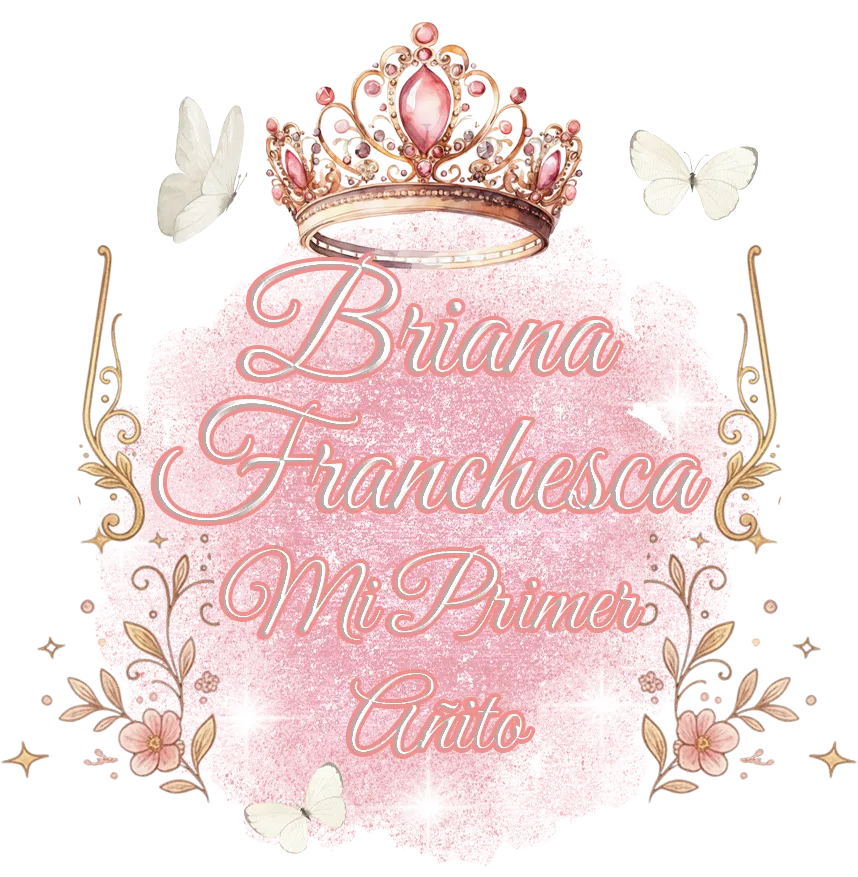
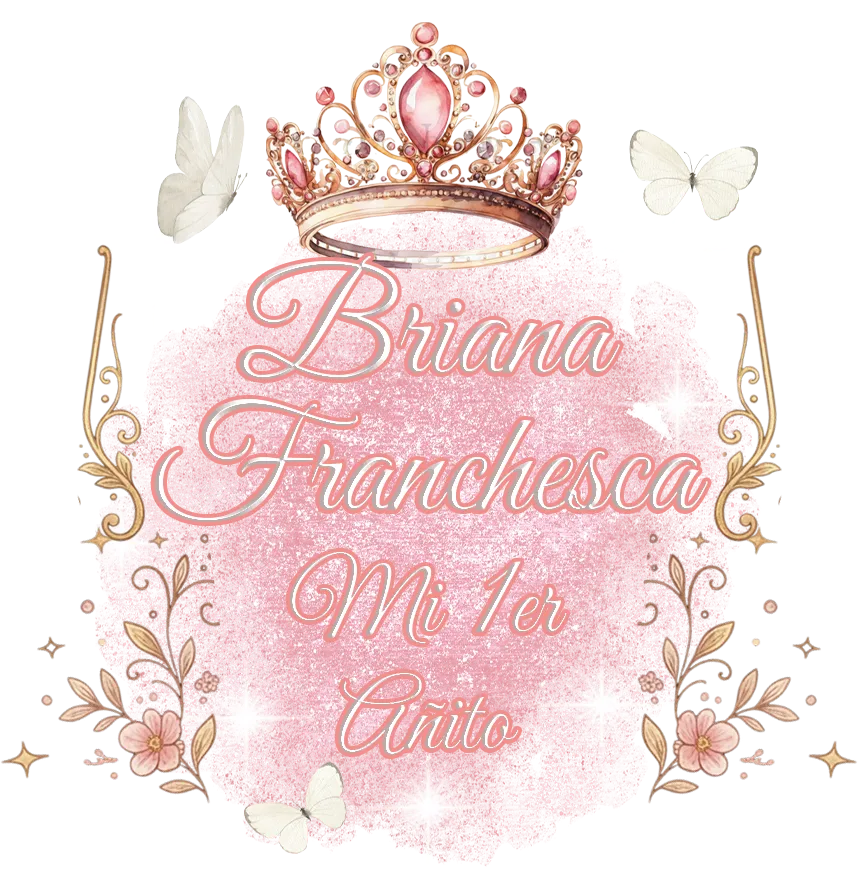
init commit

Changed region(s): [[0.2424, 0.6157, 0.7576, 0.862]]

diff --git a/index.html b/index.html
@@ -34,9 +34,9 @@
     <link rel="stylesheet" href="https://cdn.jsdelivr.net/npm/swiper@11/swiper-bundle.min.css">
     <link rel="stylesheet" href="https://cdnjs.cloudflare.com/ajax/libs/font-awesome/6.0.0-beta3/css/all.min.css">
     <link rel="stylesheet" href="https://cdn.jsdelivr.net/npm/@fancyapps/ui/dist/fancybox.css" />
-    <link rel="stylesheet" href="estilos/normalize.css?v60">
-    <link rel="stylesheet" href="estilos/styles.css?v60">
-    <link rel="stylesheet" href="estilos/mediaQueries.css?v60">
+    <link rel="stylesheet" href="estilos/normalize.css?v65">
+    <link rel="stylesheet" href="estilos/styles.css?v65">
+    <link rel="stylesheet" href="estilos/mediaQueries.css?v65">
     <link rel="stylesheet" href="https://unpkg.com/aos@2.3.1/dist/aos.css">
 </head>
 
@@ -397,7 +397,7 @@
                         <div class="agradecimiento__picture">
 
                             <!-- <img class="agradecimiento__img" src="assets/imagenes/papaNovio.webp" alt=""> -->
-                            <h5 class="agradecimiento__name">Flor y Andrés</h5> <BR></BR>
+                            <h5 class="agradecimiento__name">Lourdes y Braian</h5> <BR></BR>
 
 
                         </div>
@@ -469,12 +469,9 @@
 
         </section>
 
-        <!-- separador: -->
-        <img class="img__separador" src="assets/imagenes/SEPARADOR copia.webp" alt="" data-aos="flip-right">
-        <!-- separador: -->
+      
 
-
-        <section class="playlist contenedor block glow" id="playlist" data-aos="fade-up">
+        <section style="display: none;" class="playlist contenedor block glow" id="playlist" data-aos="fade-up">
             <div class="playlist__container">
                 <h4 class="title title--playlist">No existe fiesta sin buena música</h4>
                 <img class="playlist__img" src="assets/vectores/dj.svg" alt="">
@@ -763,7 +760,7 @@ compartirlo con ustedes. <br> Mamá y Papá de Briana"
     <script src="https://cdn.jsdelivr.net/npm/swiper@11/swiper-bundle.min.js"></script>
     <script src="https://cdn.jsdelivr.net/npm/@fancyapps/ui/dist/fancybox.umd.js"></script>
     <script src="https://unpkg.com/aos@2.3.1/dist/aos.js"></script>
-    <script src="javascript/script.js?v60"></script>
+    <script src="javascript/script.js?v65"></script>
 </body>
 
 </html>

diff --git a/cache.js b/cache.js
@@ -25,13 +25,13 @@ function cargarRecursos(recursos, version) {
 
 function forzarActualizacionCache() {
     var recursos = [
-        'estilos/normalize.css?v60',
-        'estilos/styles.css?v60',
-        'estilos/mediaQueries.css?v60',
-        'javascript/script.js?v60',
+        'estilos/normalize.css?v65',
+        'estilos/styles.css?v65',
+        'estilos/mediaQueries.css?v65',
+        'javascript/script.js?v65',
         // Add other URLs of your resources here
     ];
-    var version = 'v60'; // Use a static or manually managed version
+    var version = 'v65'; // Use a static or manually managed version
     cargarRecursos(recursos, version);
 }
 

diff --git a/service-worker.js b/service-worker.js
@@ -1,9 +1,9 @@
-const CACHE_NAME = 'cache-v60'; // Use a static or manually managed version
+const CACHE_NAME = 'cache-v65'; // Use a static or manually managed version
 const RESOURCES_TO_PRECACHE = [
-    'estilos/normalize.css?v60',
-    'estilos/styles.css?v60',
-    'estilos/mediaQueries.css?v60',
-    'javascript/script.js?v60',
+    'estilos/normalize.css?v65',
+    'estilos/styles.css?v65',
+    'estilos/mediaQueries.css?v65',
+    'javascript/script.js?v65',
     // Add more resources here if needed
 ];
 
